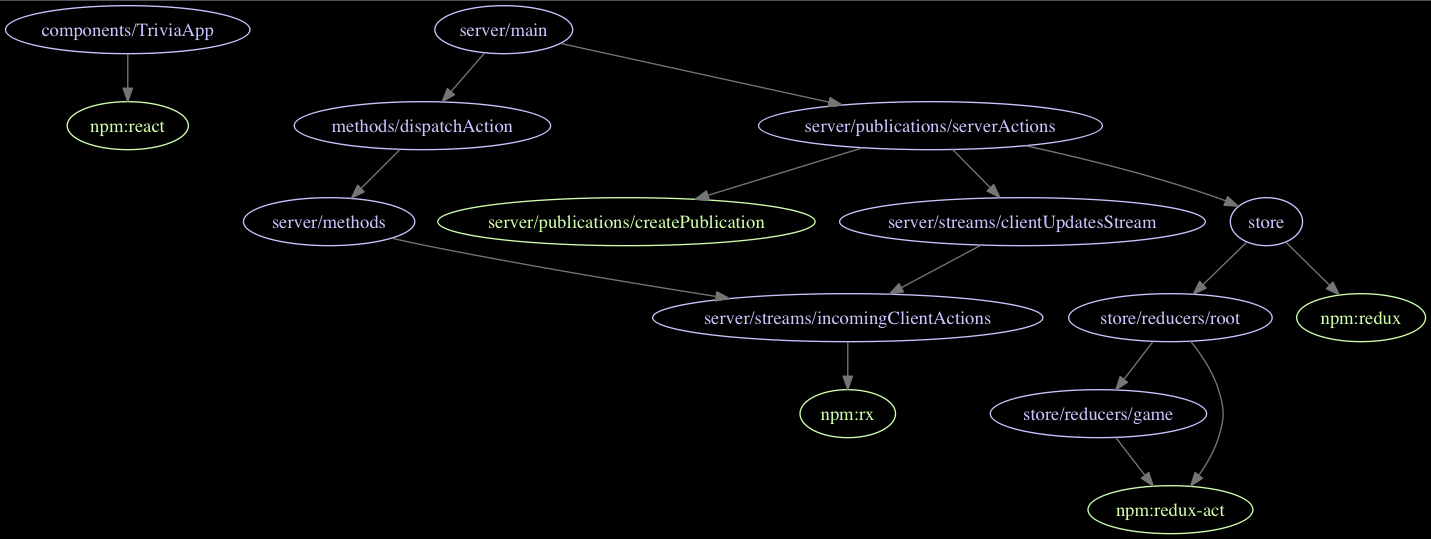
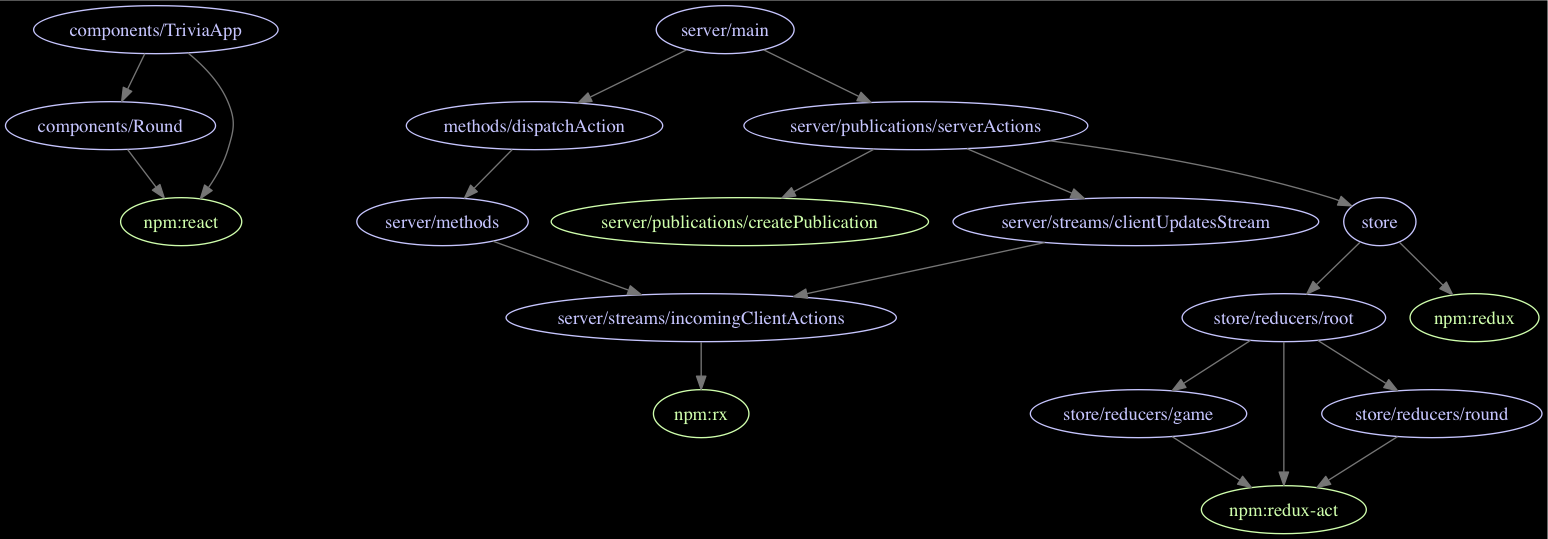
Added beginnings of Round

diff --git a/imports/store/reducers/root.js b/imports/store/reducers/root.js
@@ -3,27 +3,29 @@ import { fromJS } from 'immutable'
 import { combineReducers } from 'redux-immutable'
 import { createReducer } from 'redux-act'
 import * as Game from './game'
+import * as Round from './round'
 
-let initialState = fromJS(Meteor.isClient ? {} : Game.initialState)
+// The magic! We define our state, and delegate control over its parts
+// to corresponding reducers
 let stateReducer = combineReducers({
-  game: createReducer(Game.actionReducers, initialState)
+  game: createReducer(Game.actionReducers, fromJS(Game.initialState)),
+  round: createReducer(Round.actionReducers, fromJS(Round.initialState))
 })
 
-// eslint-disable-next-line import/no-mutable-exports
-let reducer = stateReducer
+let reducer = stateReducer      // eslint-disable-line import/no-mutable-exports
 
 // the client can allow its state to be fully reset
 if (Meteor.isClient) {
   // eslint-disable-next-line global-require
-  let { resetAction } = require('./client/reset')
+  let { resetAction, resetReducer } = require('./client/reset')
+
   // intercept RESET events; allow others to be handled normally
-  let resetReducer = (state, action) => {
-    if (resetAction.toString() === action.type) {
-      return fromJS(action.payload)
-    }
+  reducer = (state, action) => {
+    let newState = resetReducer(state, action)
+    if (newState != state) return newState  // eslint-disable-line eqeqeq
+
     return stateReducer(state, action)
   }
-  reducer = resetReducer
 }
 
 export default reducer

diff --git a/imports/store/reducers/round.js b/imports/store/reducers/round.js
@@ -1,0 +1,17 @@
+import { createAction } from 'redux-act'
+
+export const initialState = {}
+
+let begin = createAction('ROUND_BEGIN')
+let judge = createAction('ROUND_JUDGE')
+
+export const actions = {
+  begin,
+  judge
+}
+
+// LEFTOFF: beginning and advancing a round with real questions
+export const actionReducers = {
+  [begin]: (round) => round.set('question', { prompt: 'What ?' }),
+  [judge]: (round) => round.set('judged', true)
+}

diff --git a/imports/store/reducers/client/reset.js b/imports/store/reducers/client/reset.js
@@ -1,3 +1,7 @@
-import { createAction } from 'redux-act'
+import { fromJS as makeImmutable } from 'immutable'
+import { createAction, createReducer } from 'redux-act'
 
 export const resetAction = createAction('RESET')
+export const resetReducer = createReducer({
+  [resetAction]: (state, payload) => makeImmutable(payload)
+})

diff --git a/imports/server/streams/clientUpdatesStream.js b/imports/server/streams/clientUpdatesStream.js
@@ -1,7 +1,7 @@
 import incomingClientActions from './incomingClientActions'
 
 export const sanitizePayload = (payload) => {
-  return payload.updateIn(['game', 'questions'],
+  return payload && payload.updateIn(['game', 'questions'],
     qs => qs && qs.map(q => q.delete('correctAnswer')))
 }
 

diff --git a/imports/components/TriviaApp.js b/imports/components/TriviaApp.js
@@ -1,8 +1,13 @@
 import React from 'react'
+import { Round } from './Round'
 
-export const TriviaApp = ({ game }) => (
+export const TriviaApp = ({ game, round }) => (
   <div>
   <h1>Trivia !</h1>
+  { game.title }
+  <hr/>
   { game.status }
+  <hr/>
+  <Round {...round} />
   </div>
 )

diff --git a/imports/store/reducers/game.js b/imports/store/reducers/game.js
@@ -1,6 +1,7 @@
+import { Meteor } from 'meteor/meteor'
 import { createAction } from 'redux-act'
 
-export const initialState = {
+export const initialState = Meteor.isClient ? {} : {
   title: 'Meteor Redux Trivia',
   players: [],
   status: 'awaiting players',

diff --git a/imports/components/Round.js b/imports/components/Round.js
@@ -1,0 +1,11 @@
+import React from 'react'
+
+export const Round = ({ question, judged }) => {
+  if (!question) return null
+
+  return (
+    <div>
+      Question: {question.prompt}
+    </div>
+  )
+}

diff --git a/imports/server/main.js b/imports/server/main.js
@@ -1,2 +1,3 @@
 import { dispatchAction } from '../methods/dispatchAction'
 import serverActions from './publications/serverActions'
+
